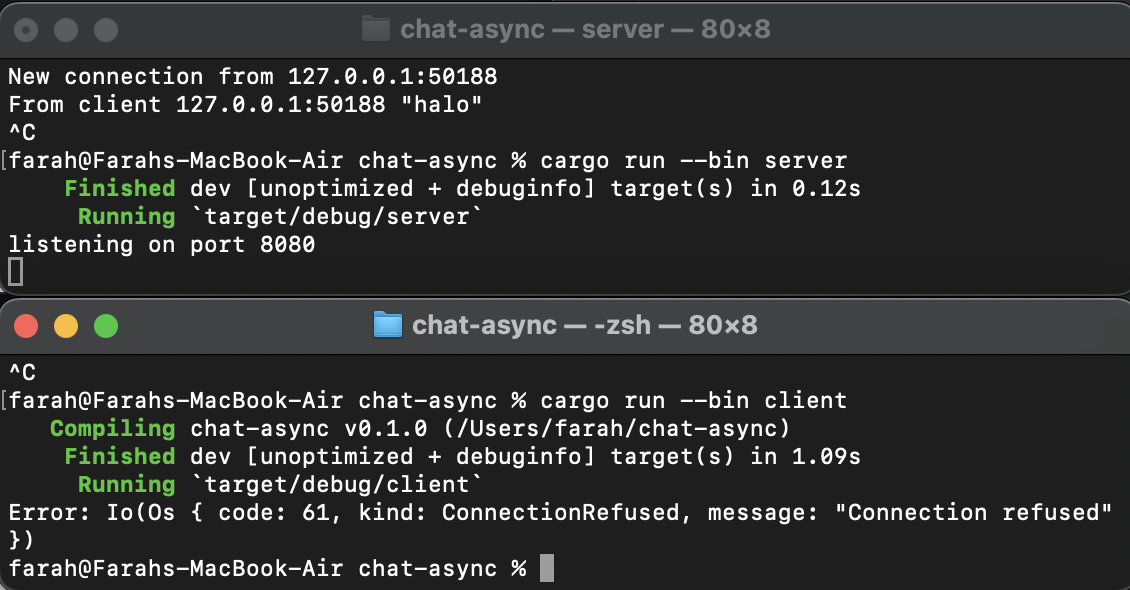
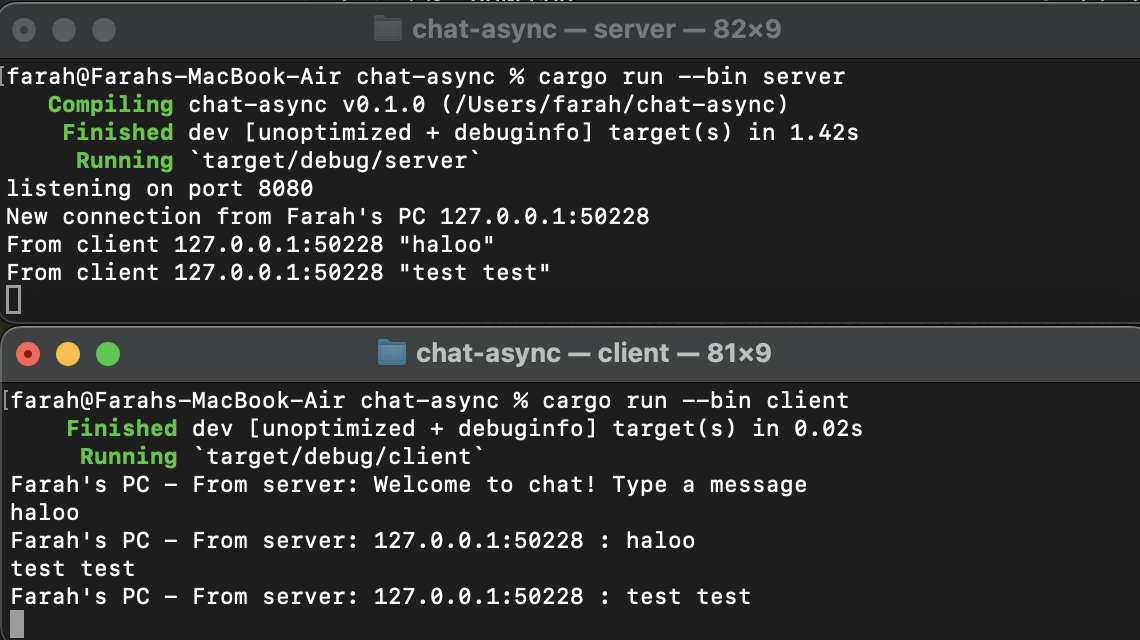
Experiment 2.3: Small changes, add IP and Port

diff --git a/src/bin/server.rs b/src/bin/server.rs
@@ -22,7 +22,7 @@ async fn handle_connection( addr: SocketAddr,
                     Some(Ok(msg)) => {
                         if let Some(text) = msg.as_text() {
                             println!("From client {addr:?} {text:?}");
-                            bcast_tx.send(text.into())?;
+                            bcast_tx.send(format!("{addr} : {text}"))?;
                         }
                     }
                     Some(Err(err)) => return Err(err.into()),
@@ -45,7 +45,7 @@ async fn main() -> Result<(), Box<dyn Error + Send + Sync>> {
 
     loop {
         let (socket, addr) = listener.accept().await?;
-        println!("New connection from {addr:?}");
+        println!("New connection from Farah's PC {addr:?}");
         let bcast_tx = bcast_tx.clone();
         tokio::spawn(async move {
             // Wrap the raw TCP stream into a websocket.

diff --git a/src/bin/client.rs b/src/bin/client.rs
@@ -20,7 +20,7 @@ async fn main() -> Result<(), tokio_websockets::Error> {
                 match incoming {
                     Some(Ok(msg)) => {
                         if let Some(text) = msg.as_text() {
-                            println!("From server: {}", text);
+                            println!("Farah's PC - From server: {}", text);
                         }
                     },
                     Some(Err(err)) => return Err(err.into()),

diff --git a/README.md b/README.md
@@ -5,4 +5,9 @@ Setelah menjalankan cargo run --bin server dan setiap klien dijalankan dengan  c
 
 ###### 2.2. Modifying the websocket port
 ![2.2](assets/images/2.2.png)
-Ketika client dan server menggunakan port yang sama, aplikasi berjalan lancar seperti sebelumnya. Namun, jika kita mengubah salah satu port, misalnya port client saya ubah menjadi 2000 dan port server tetap 8080, akan terjadi kesalahan. Saat saya menjalankan cargo run --bin client, akan terjadi error karena port pada client tidak memiliki connection.
+Ketika client dan server menggunakan port yang sama, aplikasi berjalan lancar seperti sebelumnya. Namun, jika kita mengubah salah satu port, misalnya port client saya ubah menjadi 2000 dan port server tetap 8080, akan terjadi kesalahan. Saat saya menjalankan cargo run --bin client, akan terjadi error karena port pada client tidak memiliki connection, seperti berikut.
+![2.2(2)](assets/images/2.2(2).png)
+
+###### 2.3. Small changes. Add some information to client
+Saya mengganti salah satu baris kode pada server.rs menjadi bcast_tx.send(format!("{addr} : {text}"))?; agar ketika bcast.tx (sender) mengirimkan pesan ke setiap client, ia juga akan memberikan IP sender melalui variabel addr, seperti berikut.
+![2.3](assets/images/2.3.png)
